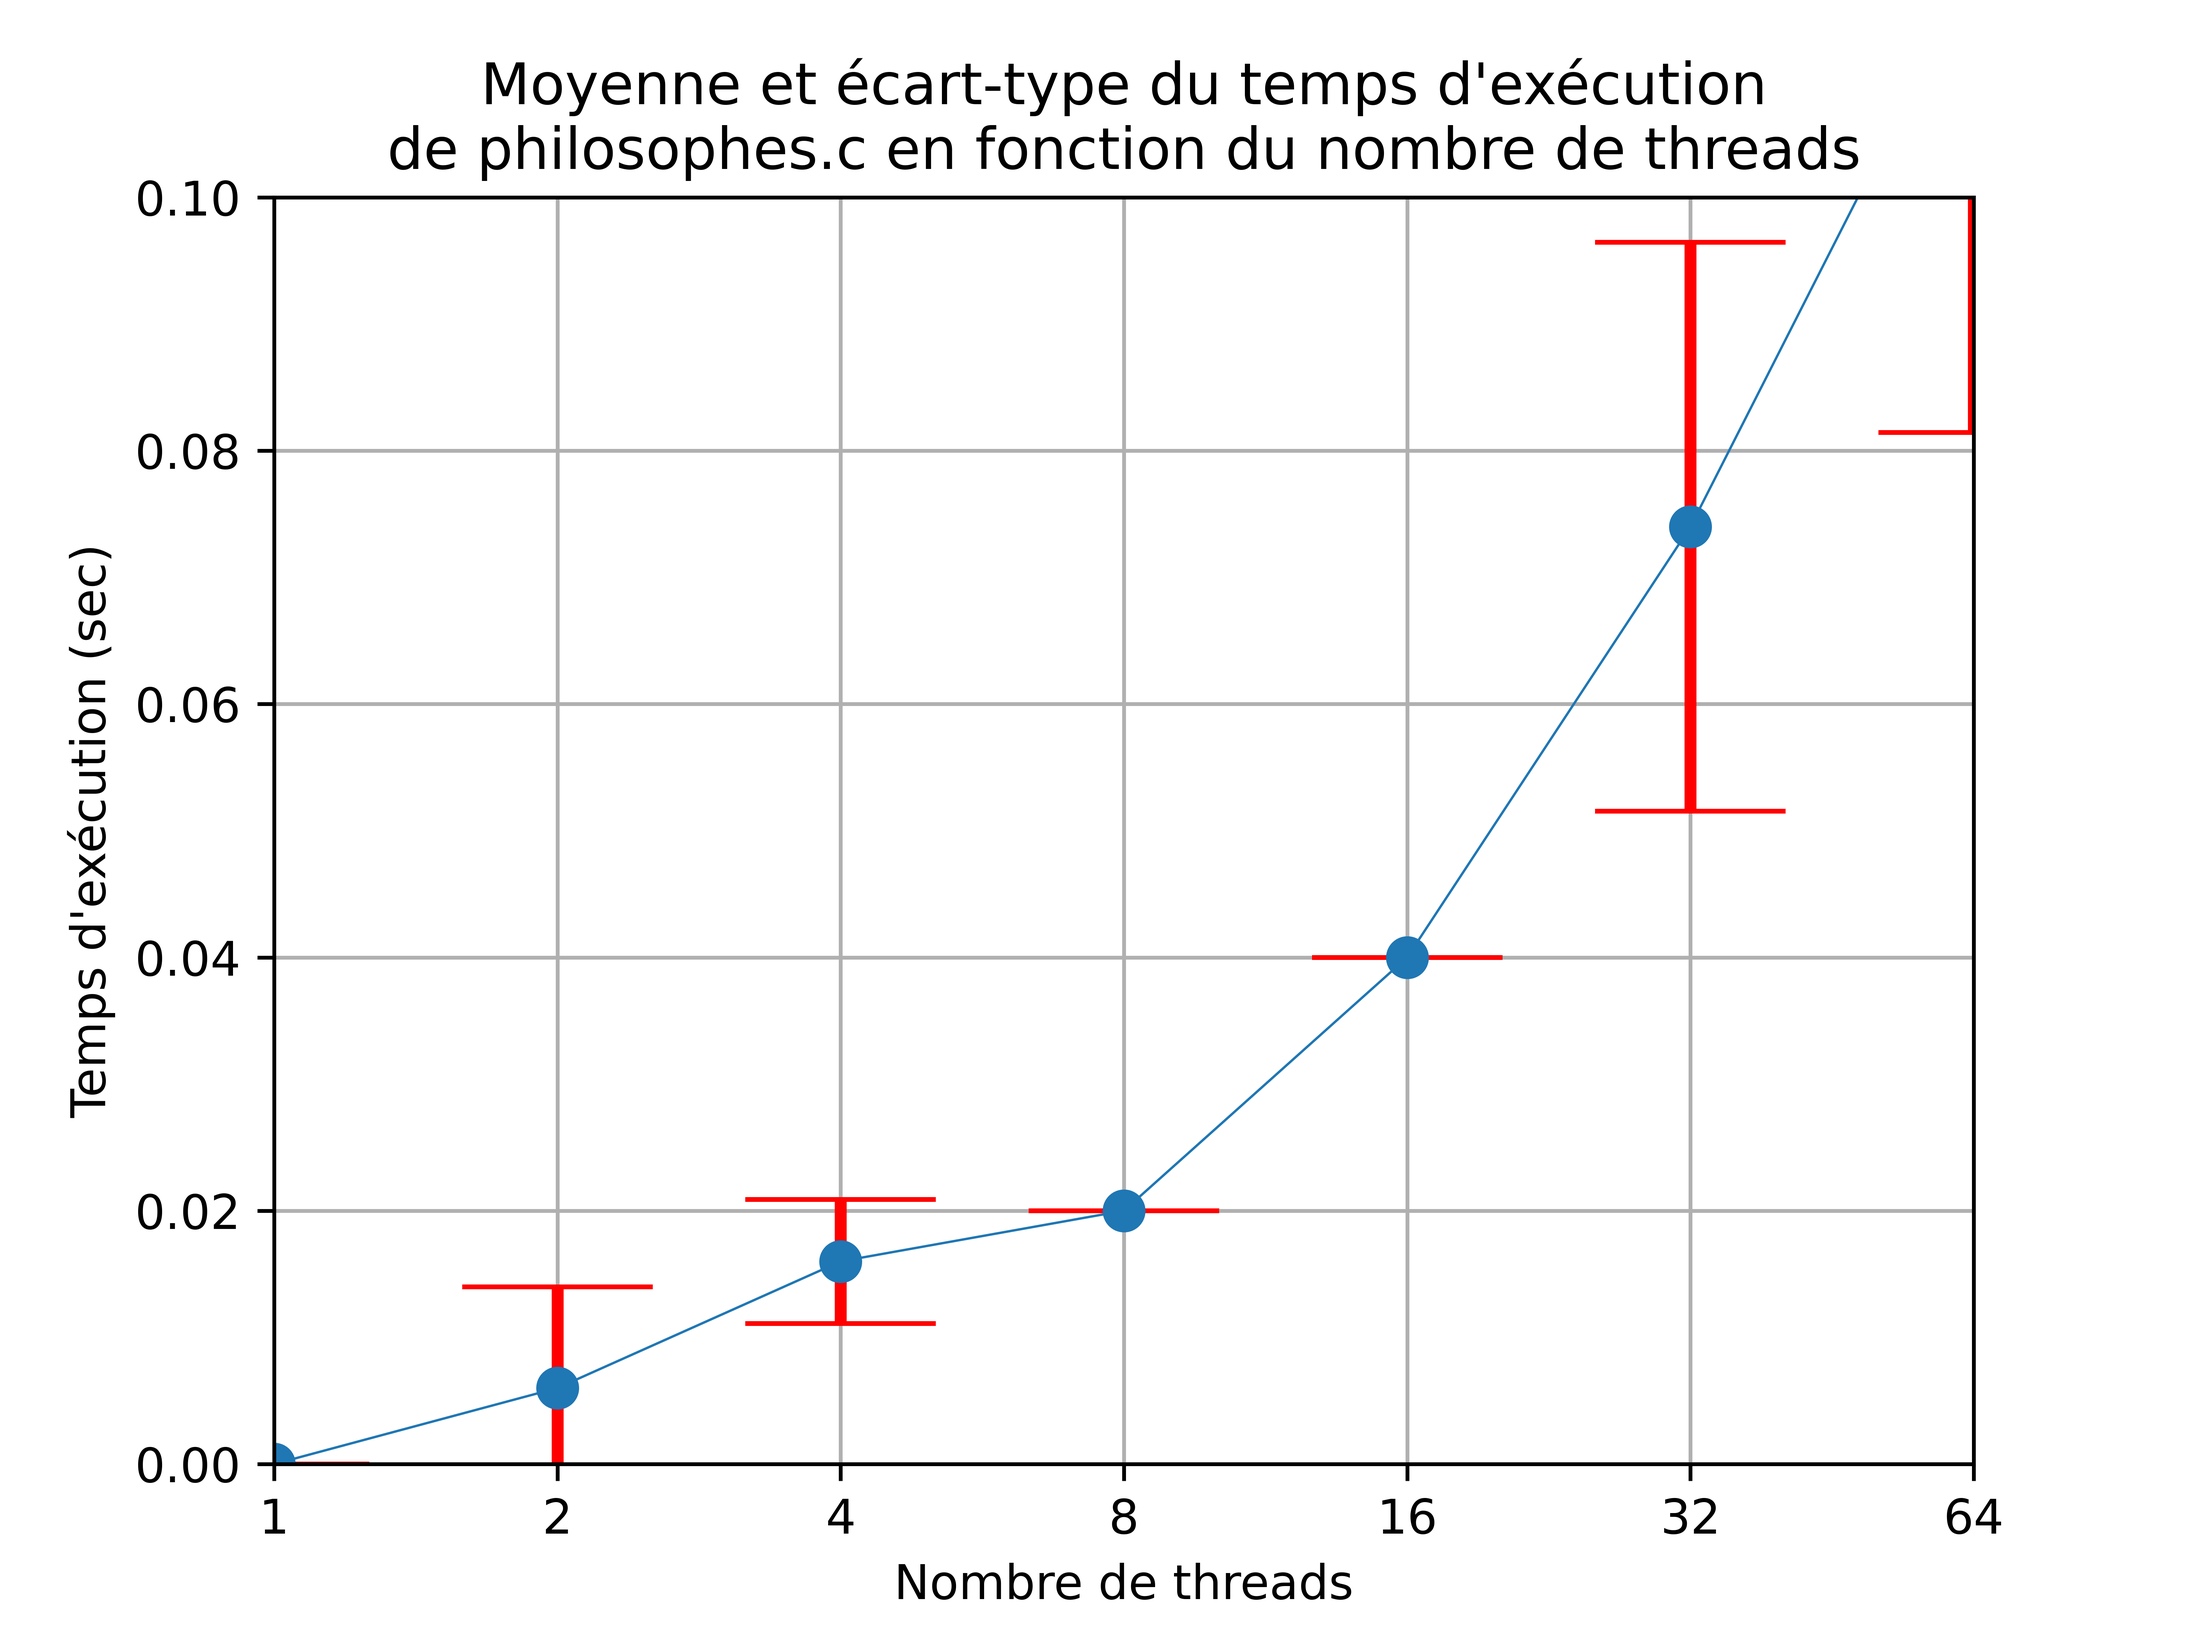
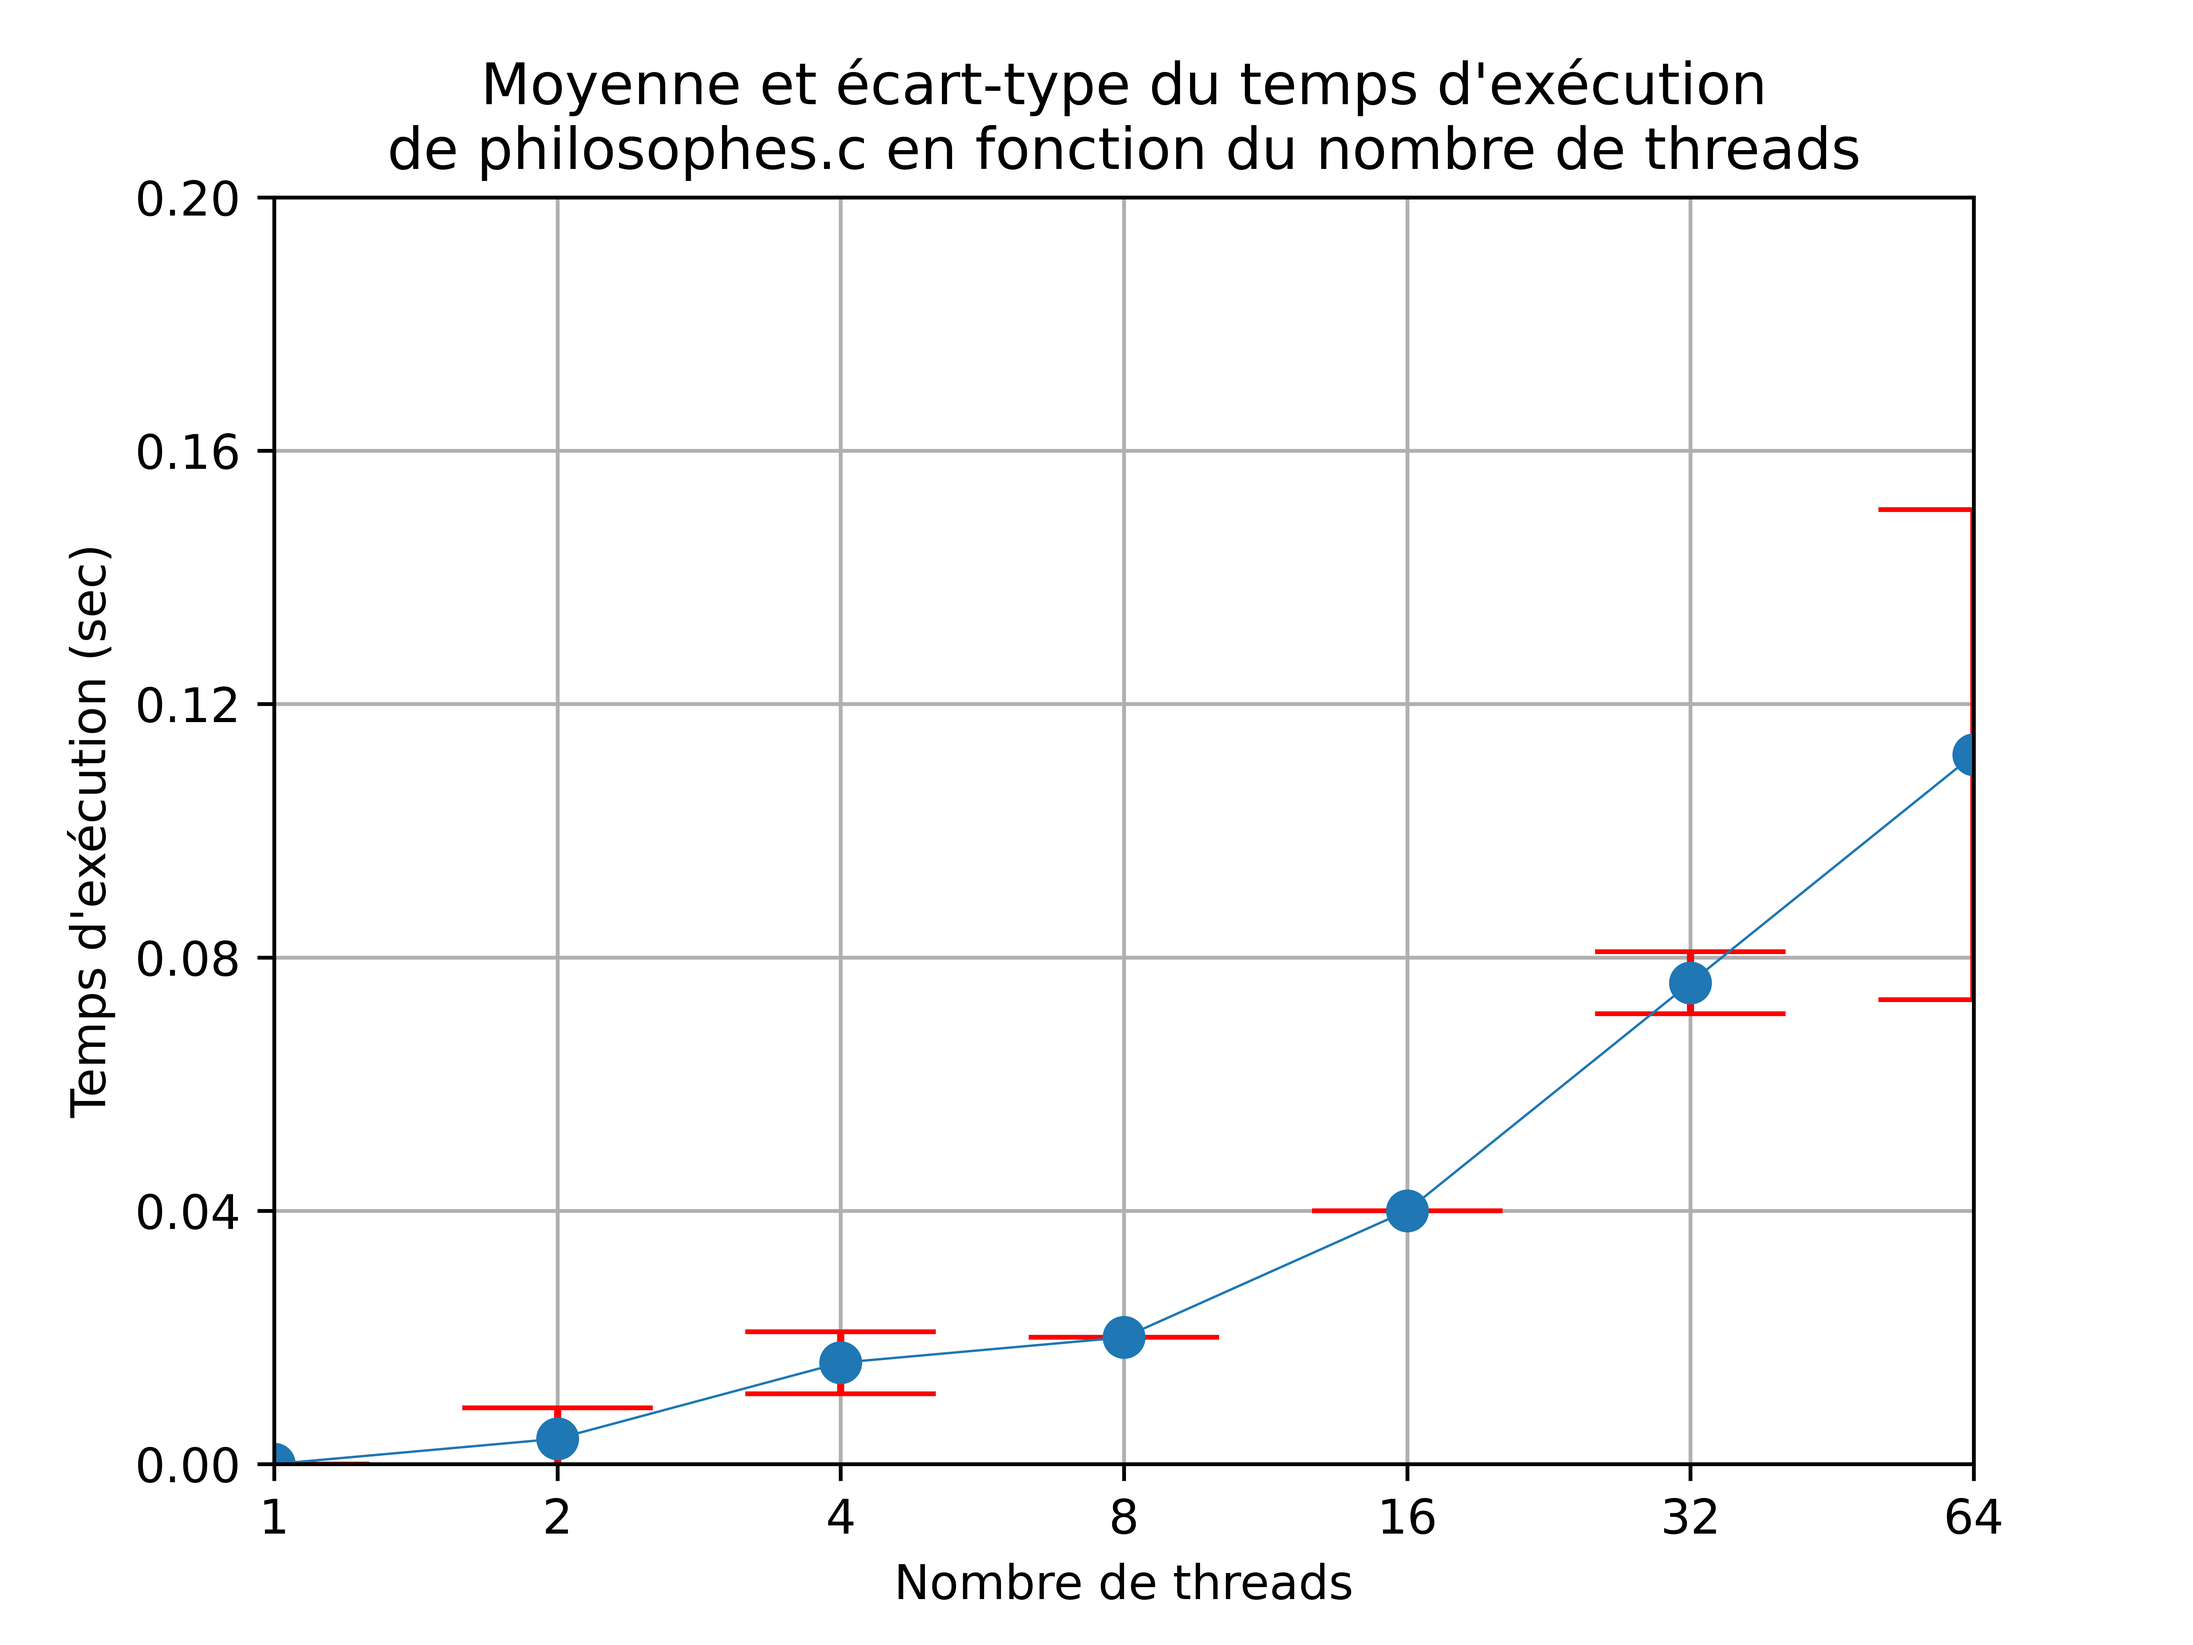
good plots

diff --git a/plot.py b/plot.py
@@ -64,11 +64,12 @@ StDev_read_write = [standard_dev(data_read_write[0]), standard_dev(data_read_wri
 
 # Plot
 fig1 = plt.figure()
-plt.errorbar(X, Mean_philo, yerr=StDev_philo, linestyle="solid", linewidth=0.5, ecolor="red", elinewidth=2.5, capsize=20, markersize=8, fmt="o")
+plt.errorbar(X, Mean_philo, yerr=StDev_philo, linestyle="solid", linewidth=0.5, ecolor="red", elinewidth=1.5, capsize=20, markersize=8, fmt="o")
 plt.xlim(1, 6)
 plt.xticks(np.arange(7), [1, 2, 4, 8, 16, 32, 64])
 plt.xlabel('Nombre de threads')
-plt.ylim(0, 0.1)
+plt.yticks(np.linspace(0, 0.2, 6))
+plt.ylim(0, 0.2)
 plt.ylabel('Temps d\'exécution (sec)')
 plt.title('Moyenne et écart-type du temps d\'exécution\nde philosophes.c en fonction du nombre de threads')
 plt.grid(True)
@@ -76,7 +77,7 @@ plt.savefig("philosophes_performances.png", dpi=1000)
 # plt.show()
 
 fig2 = plt.figure()
-plt.errorbar(X, Mean_prod_conso, yerr=StDev_prod_conso, linestyle="solid", linewidth=0.5, ecolor="red", elinewidth=2.5, capsize=20, markersize=8, fmt="o")
+plt.errorbar(X, Mean_prod_conso, yerr=StDev_prod_conso, linestyle="solid", linewidth=0.5, ecolor="red", elinewidth=1.5, capsize=20, markersize=8, fmt="o")
 plt.xlim(1, 6)
 plt.xticks(np.arange(7), [1, 2, 4, 8, 16, 32, 64])
 plt.xlabel('Nombre de threads')
@@ -89,7 +90,7 @@ plt.savefig("producteurs_consommateurs_performances.png", dpi=1000)
 # plt.show()
 
 fig3 = plt.figure()
-plt.errorbar(X, Mean_read_write, yerr=StDev_read_write, linestyle="solid", linewidth=0.5, ecolor="red", elinewidth=2.5, capsize=20, markersize=8, fmt="o")
+plt.errorbar(X, Mean_read_write, yerr=StDev_read_write, linestyle="solid", linewidth=0.5, ecolor="red", elinewidth=1.5, capsize=20, markersize=8, fmt="o")
 plt.xlim(1, 6)
 plt.xticks(np.arange(7), [1, 2, 4, 8, 16, 32, 64])
 plt.xlabel('Nombre de threads')
